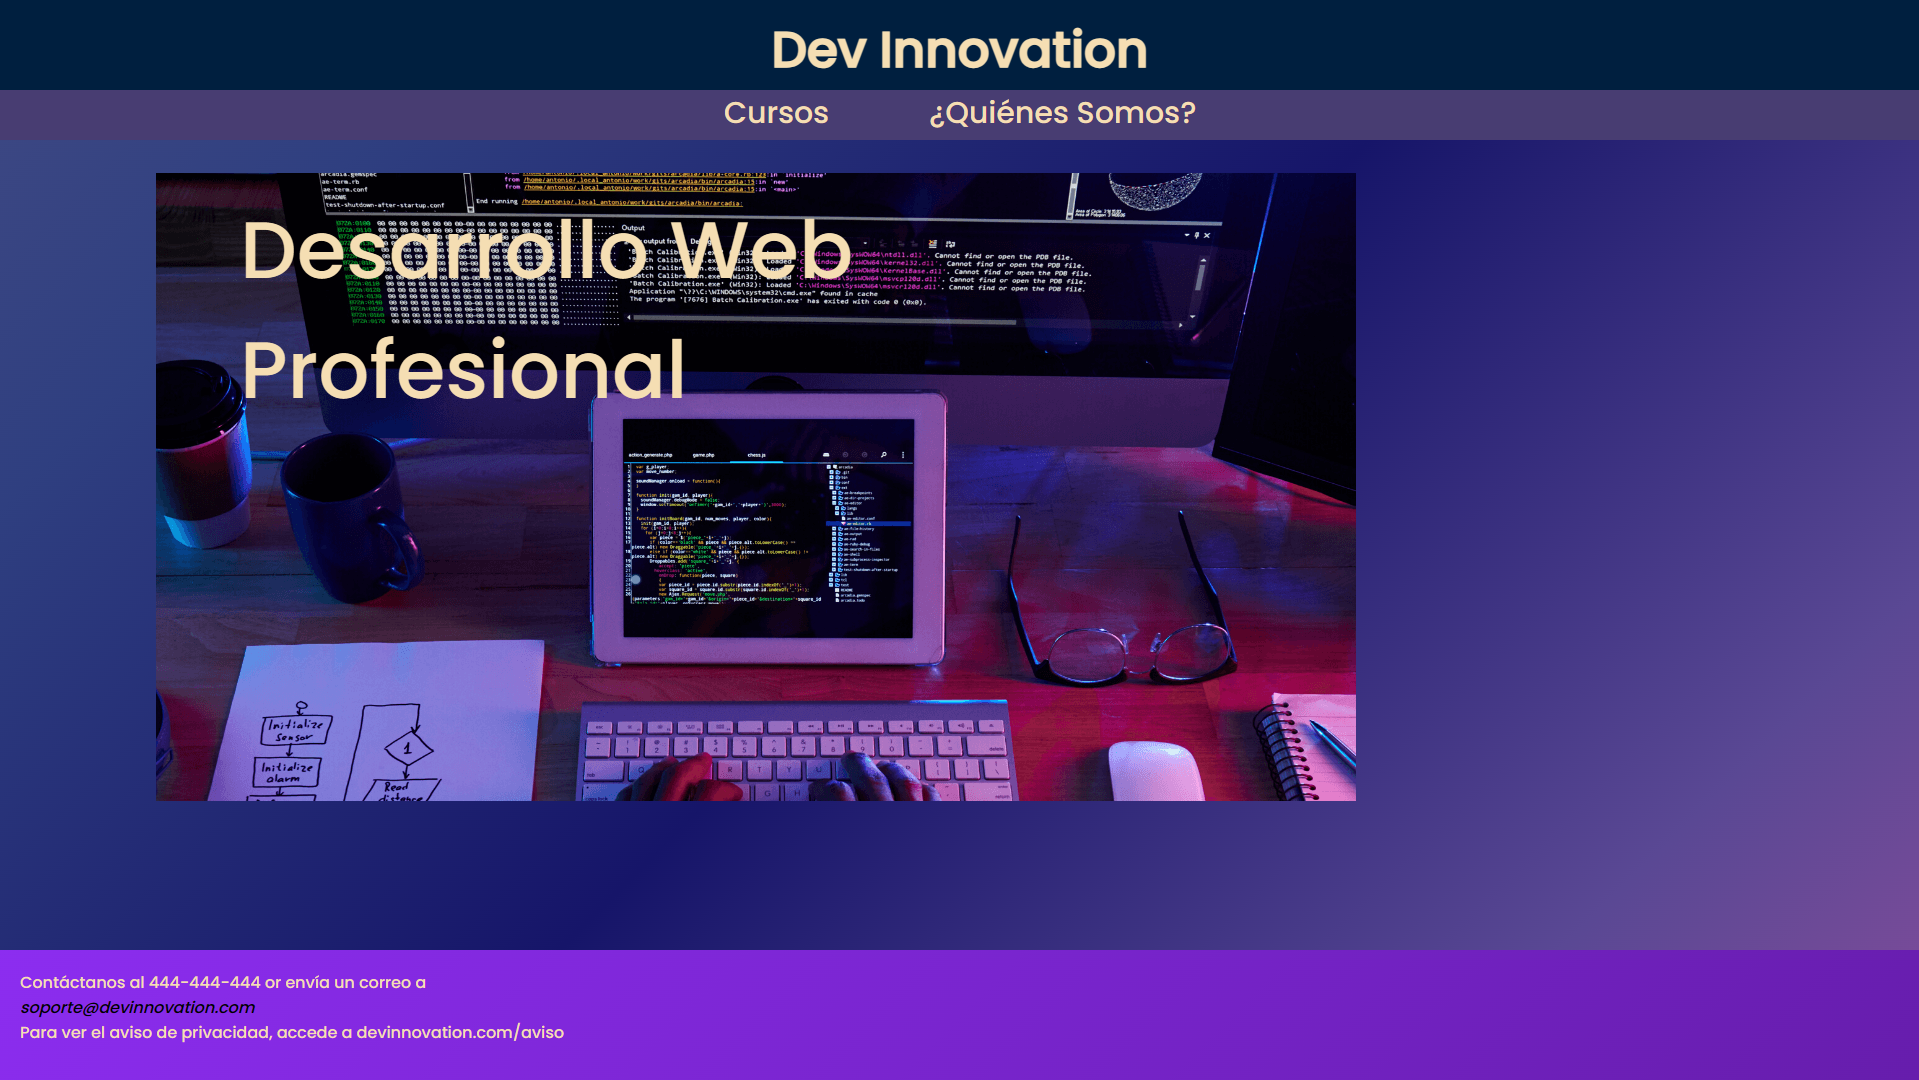
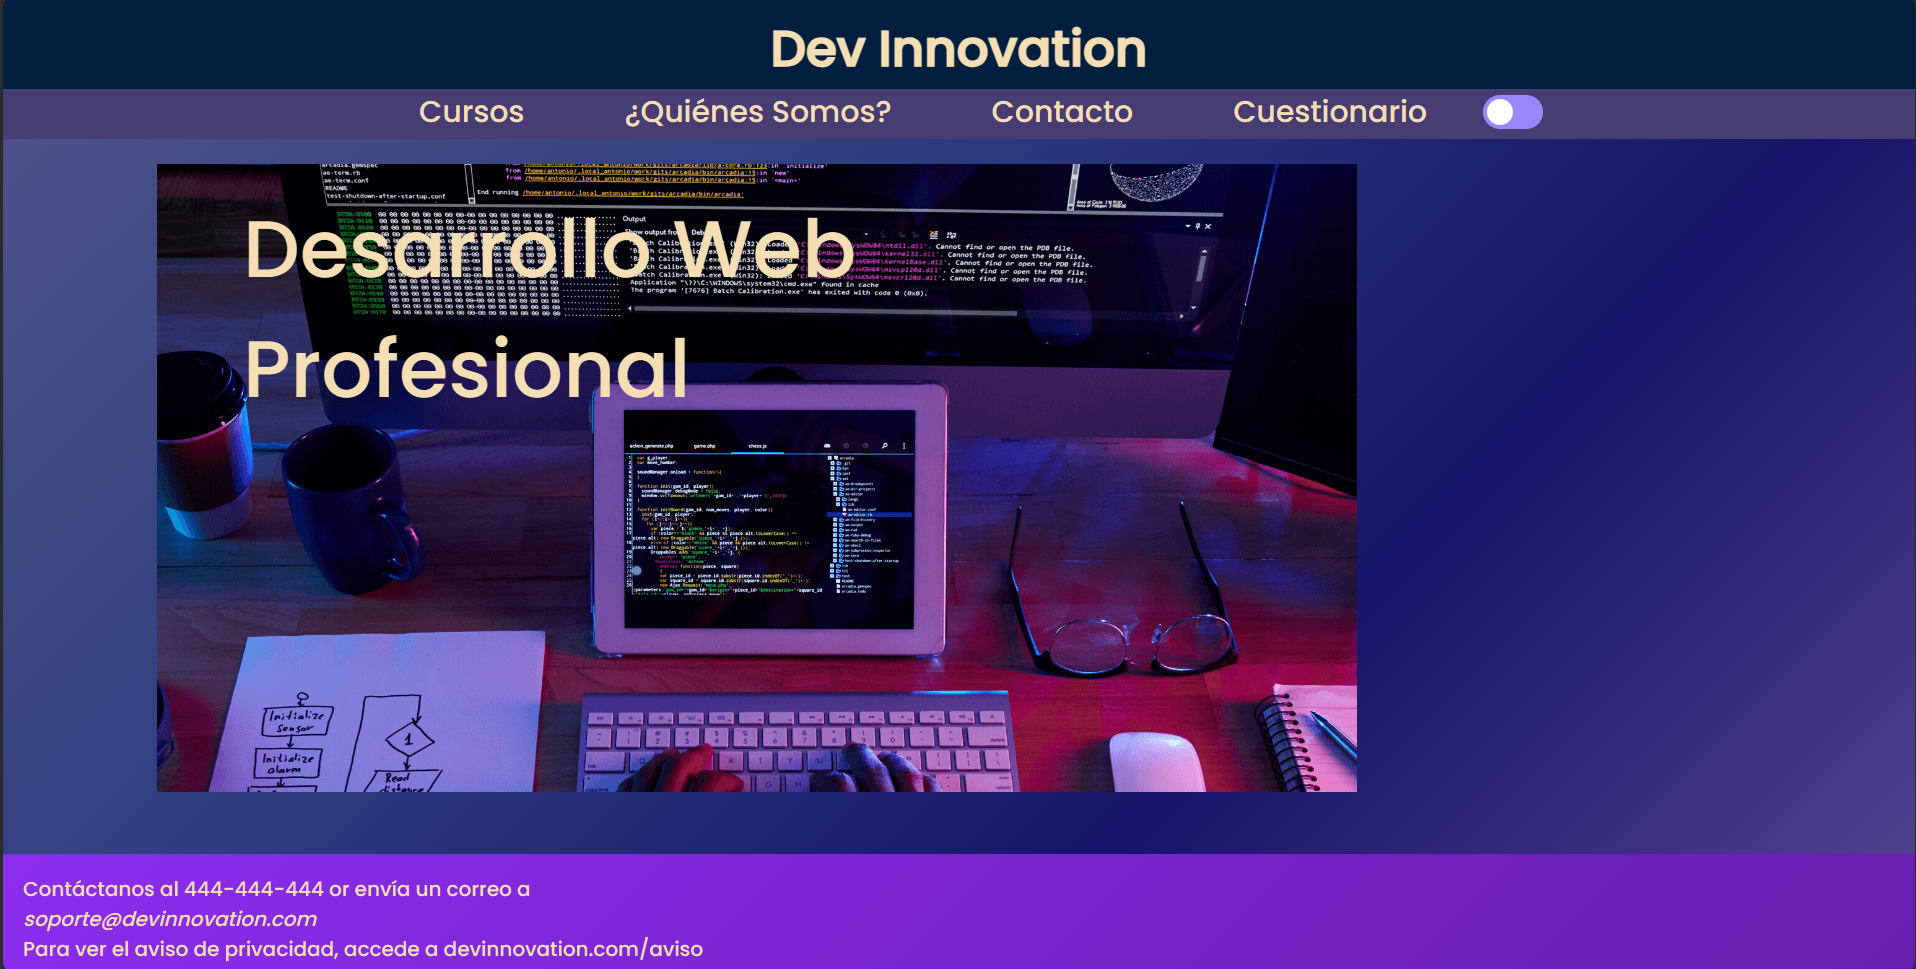
* Documentación actualizada * Comentarios extras añadidos * Revisión general

diff --git a/html/pagina-ayuda.html b/html/pagina-ayuda.html
@@ -77,14 +77,14 @@
                     compartir experiencias con otros apasionados por la tecnología.
                 </p>
 
-                <!-- Párrafo final -->
+                <!-- Servicios de la empresa -->
                 <p id="servicios" class="contenido-ayuda"><br>
                     Ya sea que estés dando tus primeros pasos en el desarrollo web o buscando perfeccionar tus
                     habilidades existentes, Dev Innovation está aquí para ayudarte a alcanzar tus metas.
                     ¡Explora nuestros cursos y únete a nosotros en el emocionante viaje hacia el dominio del desarrollo
                     web!
                 </p>
-                <!-- Nuevo subtítulo y párrafo -->
+                <!-- Desarrollo web importancia -->
                 <h4 onclick="mostrarContenido('beneficios')">Beneficios de Aprender Desarrollo Web</h4>
                 <p id="beneficios" class="contenido-ayuda">
                     Aprender desarrollo web ofrece una amplia gama de beneficios. No solo te brinda habilidades
@@ -95,7 +95,7 @@
                     web.
                 </p>
 
-                <!-- Nuevo subtítulo y párrafo -->
+                <!-- Herramientas de desarrollo web -->
                 <h4 onclick="mostrarContenido('herramientas')">Herramientas Esenciales para Desarrolladores Web</h4>
                 <p id="herramientas" class="contenido-ayuda">
                     Los desarrolladores web utilizan una variedad de herramientas para crear y mantener sitios web y

diff --git a/css/estilo.css b/css/estilo.css
@@ -349,7 +349,7 @@ input[type="button"]:hover {
 }
 
 /* Boton tema claro-oscuro*/
-
+/* Tema claro con fondo animado */
 .claro {
     background: linear-gradient(135deg, #f7f5fd, #f7f5fd, #e4ddf7, #d1c1f1,
             #b99de8, #a275dd, #9357d0, #8245bc);
@@ -388,7 +388,7 @@ input[type="button"]:hover {
     background: linear-gradient(135deg, #bdaed1, #d4c0f2, #ba98e8, #8752cb);
 }
 
-/* Fondo gradiente animado, conectado a una animación */
+/* Fondo gradiente animado, conectado a una animación del modo oscuro*/
 .oscuro {
     background: linear-gradient(135deg, #00b7d4, #505488, #2F3F80, #161569,
             #5A4894, #A950A1, #FF7CAE);
@@ -430,7 +430,7 @@ input[type="button"]:hover {
     width: 0;
     height: 0;
 }
-
+/* Animación de la esfera blanca dentro del switch para que se mueva */
 .slider {
     position: absolute;
     cursor: pointer;
@@ -456,7 +456,7 @@ input[type="button"]:hover {
     -webkit-transition: 0.8s;
     transition: 0.8s;
 }
-
+/* Botón interactivo de cambio de tema para que al tocarlo haga animación y cambie el color*/
 #toogle {
     display: none;
 }

diff --git a/html/formulario-contacto.html b/html/formulario-contacto.html
@@ -32,7 +32,7 @@
         </label>
     </nav>
 
-    <!-- Contenido principal de la página -->
+    <!-- Formulario de contacto -->
     
     <div class="formulario">
         <h2>Formulario de contacto</h2>
@@ -53,6 +53,7 @@
             <input type="button" value="Enviar" onclick="validarFormulario()">
         </form>
     </div>
+    <!-- Ventana emergente-->
     <div id="customAlert" class="custom-alert">
         <span class="cerrarAlert" onclick="closeAlert()">&times;</span>  
         <strong>Formulario completado!</strong> Muchas gracias por ponerte en contacto con nosotros.

diff --git a/html/cuestionario.html b/html/cuestionario.html
@@ -32,7 +32,7 @@
         </label>
     </nav>
 
-    <!-- Contenido principal de la página -->
+    <!-- Cuestionario -->
     
     <div class="cuestionario">
         <h2>Cuestionario</h2>
@@ -61,6 +61,7 @@
             <input type="button" value="Enviar" onclick="validarCuestionario()">
         </form>
     </div>
+    <!-- Ventana emergente-->
     <div id="customAlert" class="custom-alert">
         <span class="cerrarAlert" onclick="closeAlert()">&times;</span>  
         <strong>Cuestionario completado!</strong> Muchas gracias, valoramos mucho tu aportacion!

diff --git a/README.md b/README.md
@@ -19,10 +19,14 @@ Todas tienen un footer con un 'mailto' de contacto.
 |	|-- pagina-inicio.html
 | -- img/
 |   | -- css-img.png
+|   | -- flecha-derecha.svg
+|   | -- flecha-izquierda.svg
 |   | -- html-img.png
 |   | -- js-img.png
 |   | -- portada.png
 |   | -- react-img.png
+| -- js/
+|   | -- script.js
 | - - README.md
 ```
 ## Teconologias utilizadas
@@ -30,6 +34,7 @@ La página web ha sido desarrollada utilizando las siguientes tecnologías:
 
 HTML5: Estructura básica de la página.
 CSS3: Estilos y diseño de la página.
+Javascript: Funcionalidades interactivas en la página.
 ## Características y Funcionalidades Principales
 
 La página web presenta las siguientes características y funcionalidades:
@@ -39,8 +44,30 @@ Navegación Intuitiva: Menús y enlaces que facilitan la navegación del usuario
 Footer con mail de contacto.
 Cursos de desarrollo: Sección que muestra cursos de desarrollo con imágenes relacionadas con el contenido.
 Animaciones Suaves: Uso de animaciones CSS.
-
-## Capturas de pantalla
+## Interactividad y novedades
+### Interactividad
+#### Web
+La web cuenta con varias novedades interactivas, a simple vista se aprecia un boton en el menú de navegación que permite al usuario cambiar el tema de la página de oscuro a claro y viceversa.
+![Botón de cambio de tema](capturas/boton-tema.png)
+![Web tema claro](capturas/tema-claro.png)
+#### Formulario y Cuestionario
+Se añaden dos apartados nuevos llamados "Cuestionario" y "Contacto" que son dos formularios, el caso de Cuestionario se utiliza para que el usuario pueda dar feedback a la web sobre su utilidad entre otras cosas, el caso Formulario es un formulario de contacto útil para poder enviar mensajes a la empresa sobre dudas o problemas. 
+![Formulario de Contacto](capturas/contacto.png)
+![Formulario Completado](capturas/contacto-exito.png)
+![Cuestionario](capturas/cuestionario.png)
+![Cuestionaro Completado](capturas/cuestionario-exito.png)
+Ambos formularios presentan una caracterísitca especial y es que al completar con exito el formulario surge una alerta personalizada emergente.
+#### Página Cursos
+La página de Cursos sufre un cambio y ahora se visualiza en forma de carrusel interactivo con texto sobre imagen animado.
+![Imágen HTML](capturas/html.png)
+![Imágen CSS](capturas/css.png)
+![Imágen Javascript](capturas/js.png)
+![Imágen React](capturas/react.png)
+#### Página de ayuda o información de la web
+La página de ayuda y información de la web sufre otro cambio y permite mostrar y ocultar información para que el usuario no vea demasiada información en un primer contacto y pueda seleccionar que apartados quiere leer.
+![Párrafos ocultos](capturas/pagina-ayuda.png)
+![Páraffos visibles](capturas/ayuda.png)
+## Capturas de pantalla web
 - Página de Inicio
 ![Página Principal](capturas/pagina-inicio.png)
 - - Menu de navegación
@@ -49,8 +76,6 @@ Animaciones Suaves: Uso de animaciones CSS.
 ![Footer](capturas/footer.png)
 -  Página de Cursos
 ![Página Cursos](capturas/pagina-cursos.png)
-- - Tarjetas Cursos
-![Tarjetas](capturas/tarjetas.png)
 - Página de Ayuda
 ![Página Ayuda](capturas/pagina-ayuda.png)
 - - Ayuda de ¿Quienes somos?
